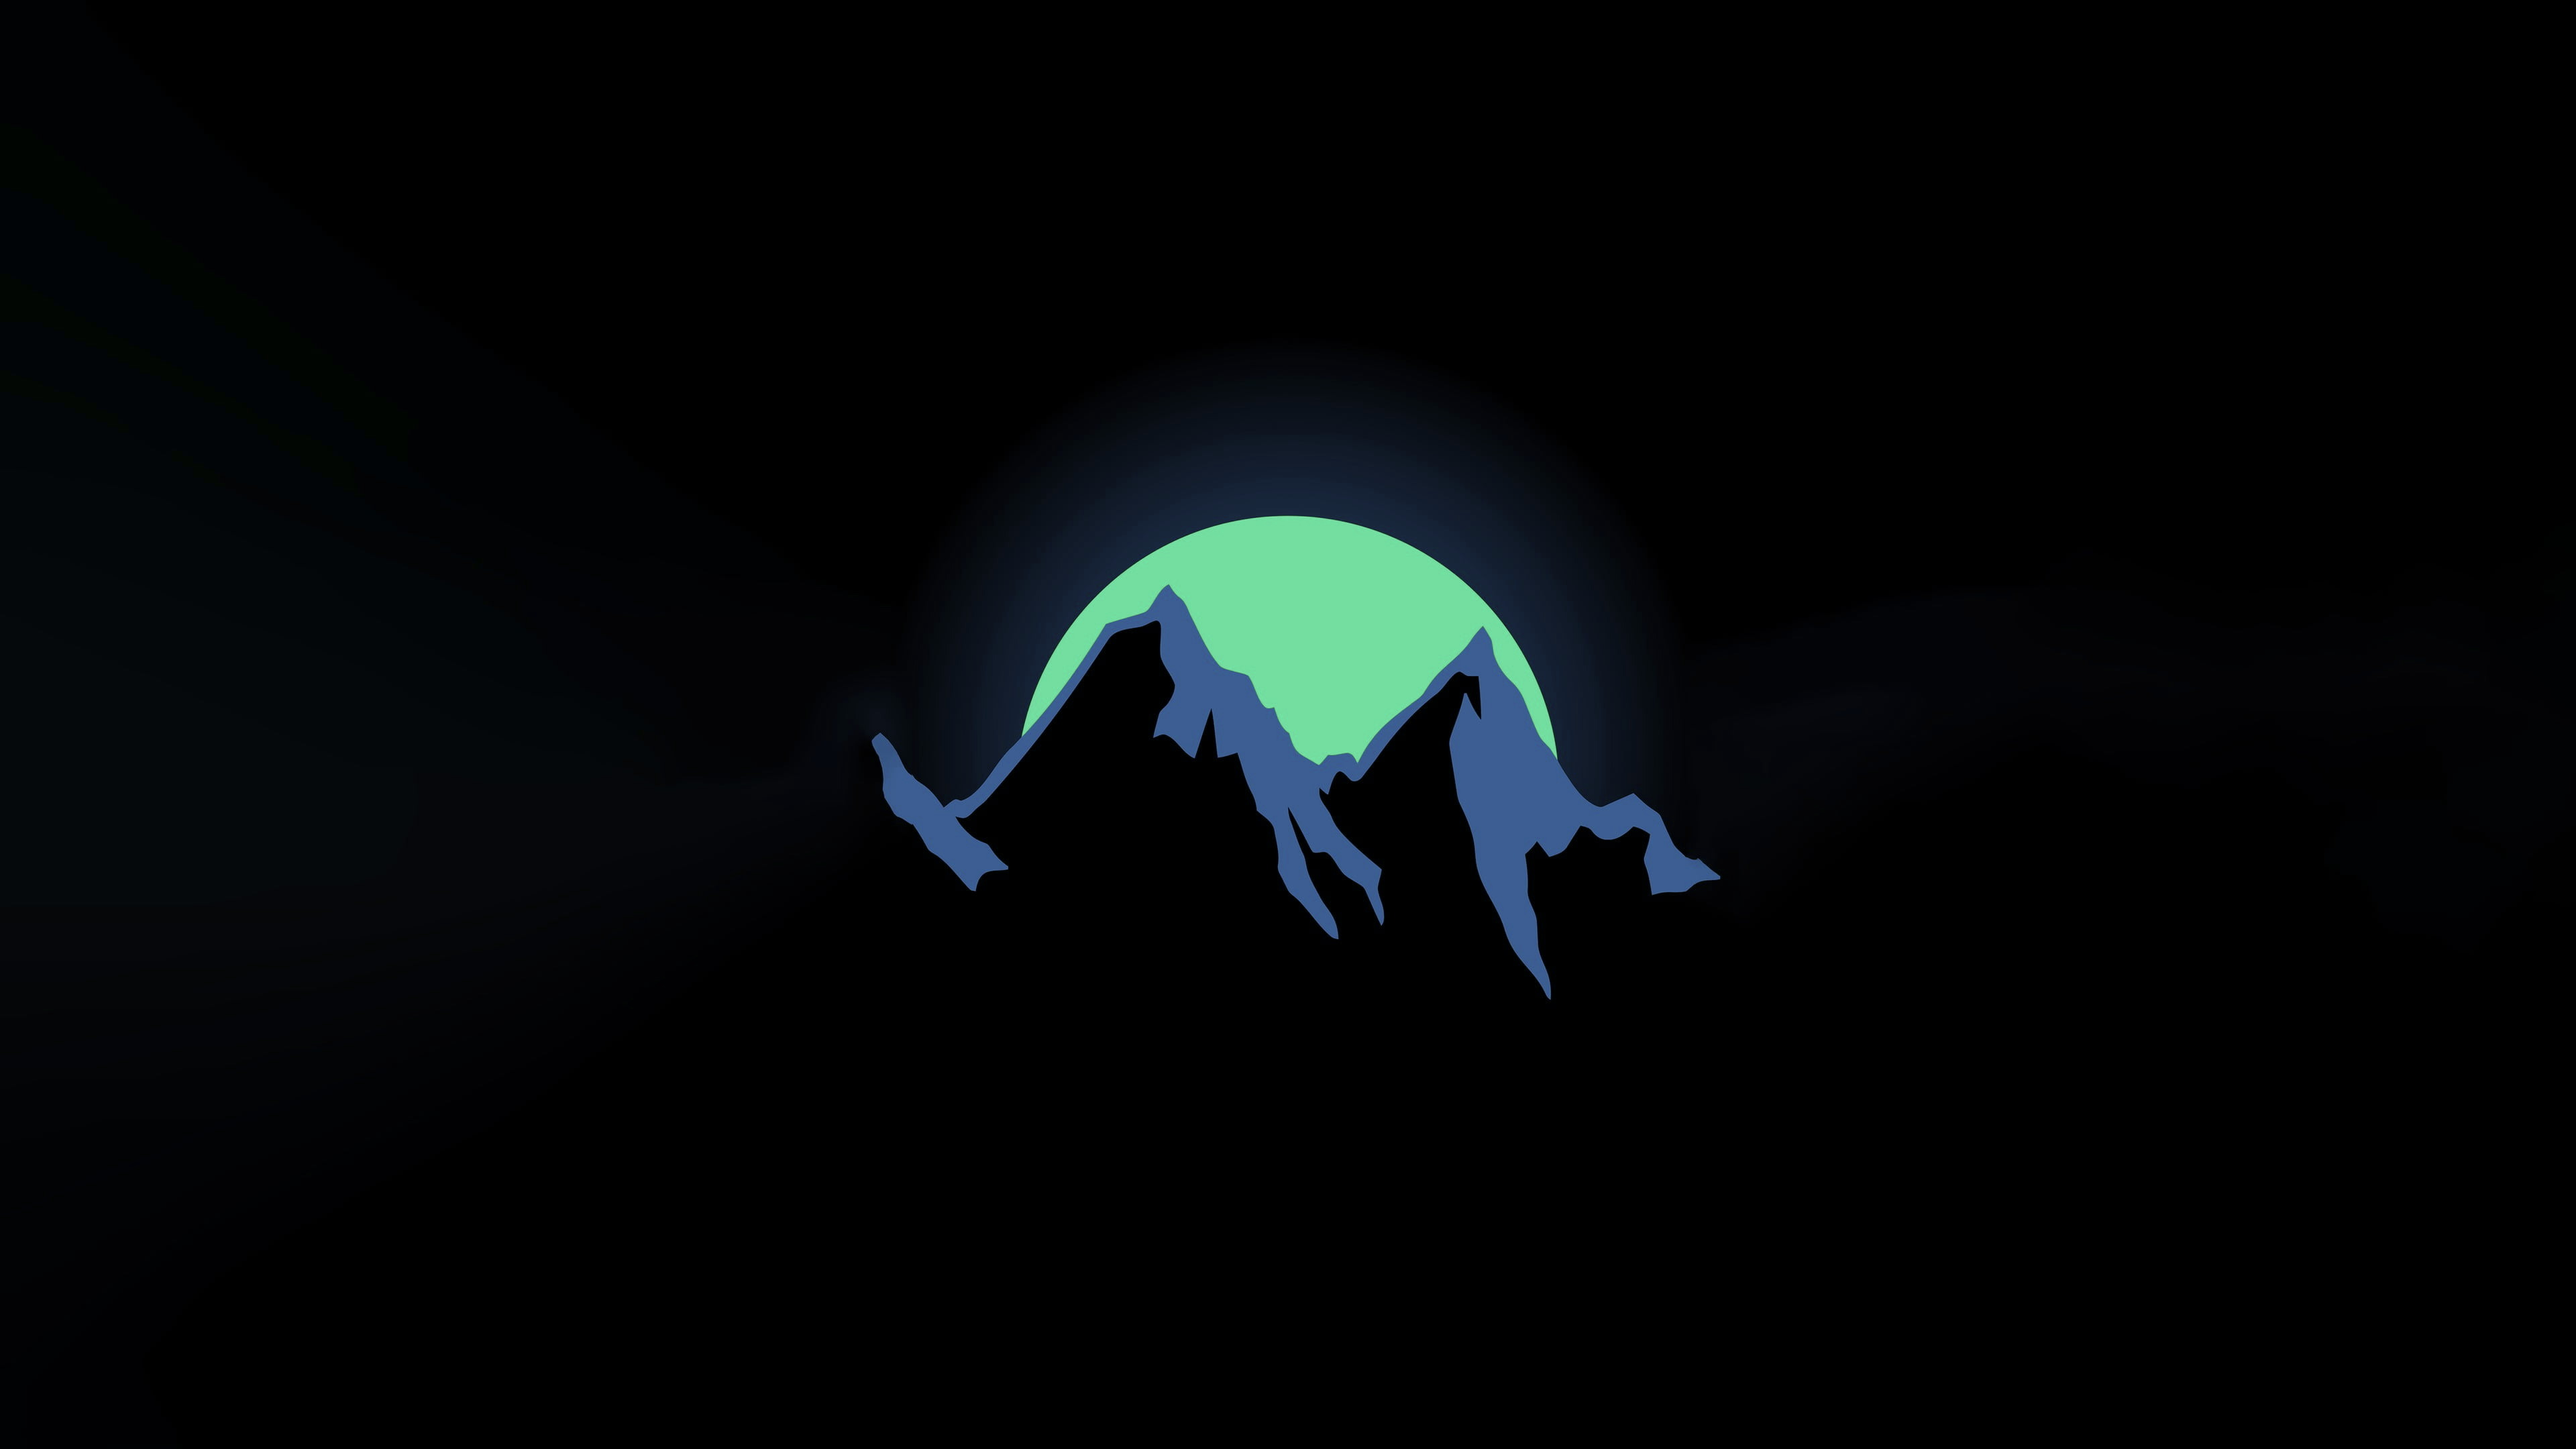
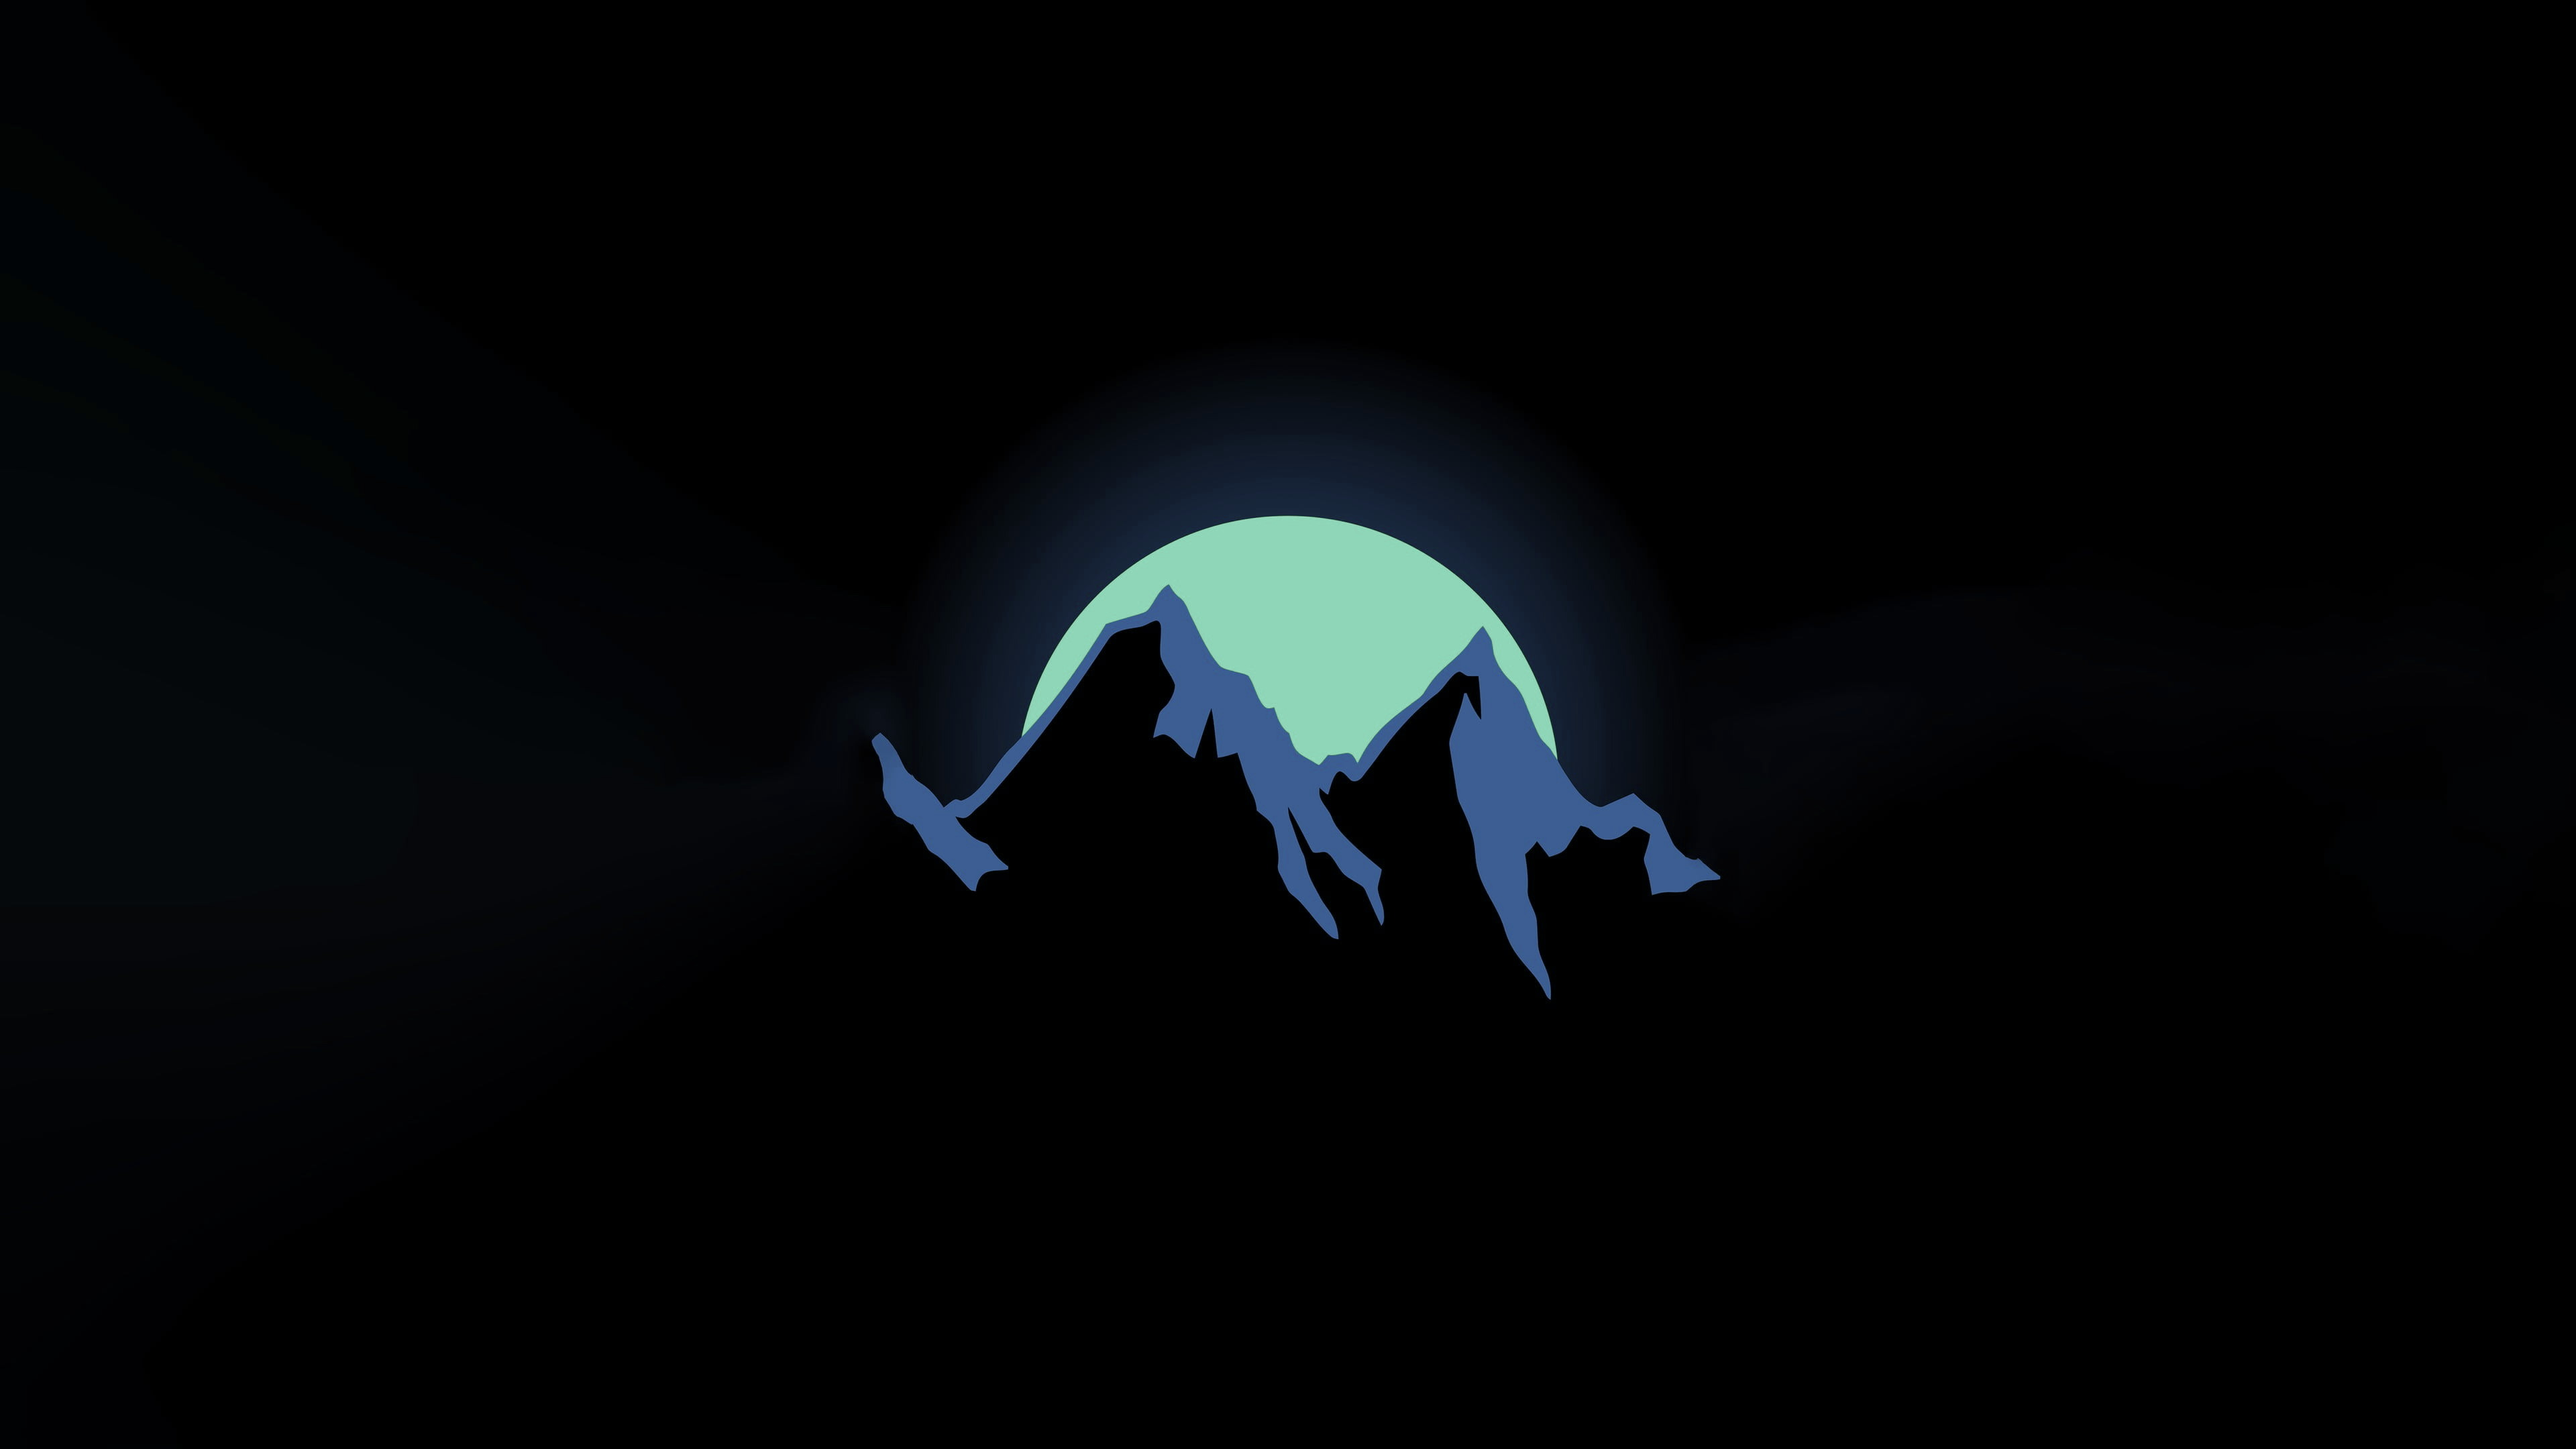
wallpaper: sun matches the bar's workspace-2 green
#74dea0 -> #8fd6b8, the pastel green workspaceColor() in
linux/configs/quickshell/shell.qml gives workspace 2, so the wallpaper,
lock screen and bar share one green.

Changed region(s): [[0.375, 0.3412, 0.5938, 0.5273], [0.5938, 0.4653, 0.625, 0.4963]]

diff --git a/minimal/README.md b/minimal/README.md
@@ -5,14 +5,14 @@
 ![Blue mountain silhouette against a green sun on black](blue-mountain-green-sun.jpg)
 
 - File: `blue-mountain-green-sun.jpg`
-- A recolour of `synthwave-mountain-sun.jpg` below. It was converted to HSL and only the hue was remapped (purple to blue, pink to green), so the black stays black. The green is then set to a pastel mint with a bit more saturation (`#74dea0`): the sun's hue is pinned, and its saturation and lightness are scaled so the flat sun lands on that colour while the glow and edges scale with it:
+- A recolour of `synthwave-mountain-sun.jpg` below. It was converted to HSL and only the hue was remapped (purple to blue, pink to green), so the black stays black. The green is then set to the Quickshell bar's workspace-2 green (`#8fd6b8`, `workspaceColor()` in `linux/configs/quickshell/shell.qml`): the sun's hue is pinned, and its saturation and lightness are scaled so the flat sun lands on that colour while the glow and edges scale with it:
 
   ```sh
   magick synthwave-mountain-sun.jpg -colorspace HSL -channel R \
     -fx "hh = u < 0.1 ? u + 1 : u; qq = 0.60 - 0.9*(hh-0.75); hh >= 0.65 ? (qq < 0 ? qq + 1 : qq) : u" \
-    -channel G -fx "u.r >= 0.3 && u.r <= 0.5 ? u*0.763 : u" \
-    -channel B -fx "u.r >= 0.3 && u.r <= 0.5 ? u*1.0585 : u" \
-    -channel R -fx "u >= 0.3 && u <= 0.5 ? 0.4044 : u" \
+    -channel G -fx "u.r >= 0.3 && u.r <= 0.5 ? u*0.5711 : u" \
+    -channel B -fx "u.r >= 0.3 && u.r <= 0.5 ? u*1.1226 : u" \
+    -channel R -fx "u >= 0.3 && u <= 0.5 ? 0.4296 : u" \
     +channel -colorspace sRGB -quality 92 blue-mountain-green-sun.jpg
   ```
 
